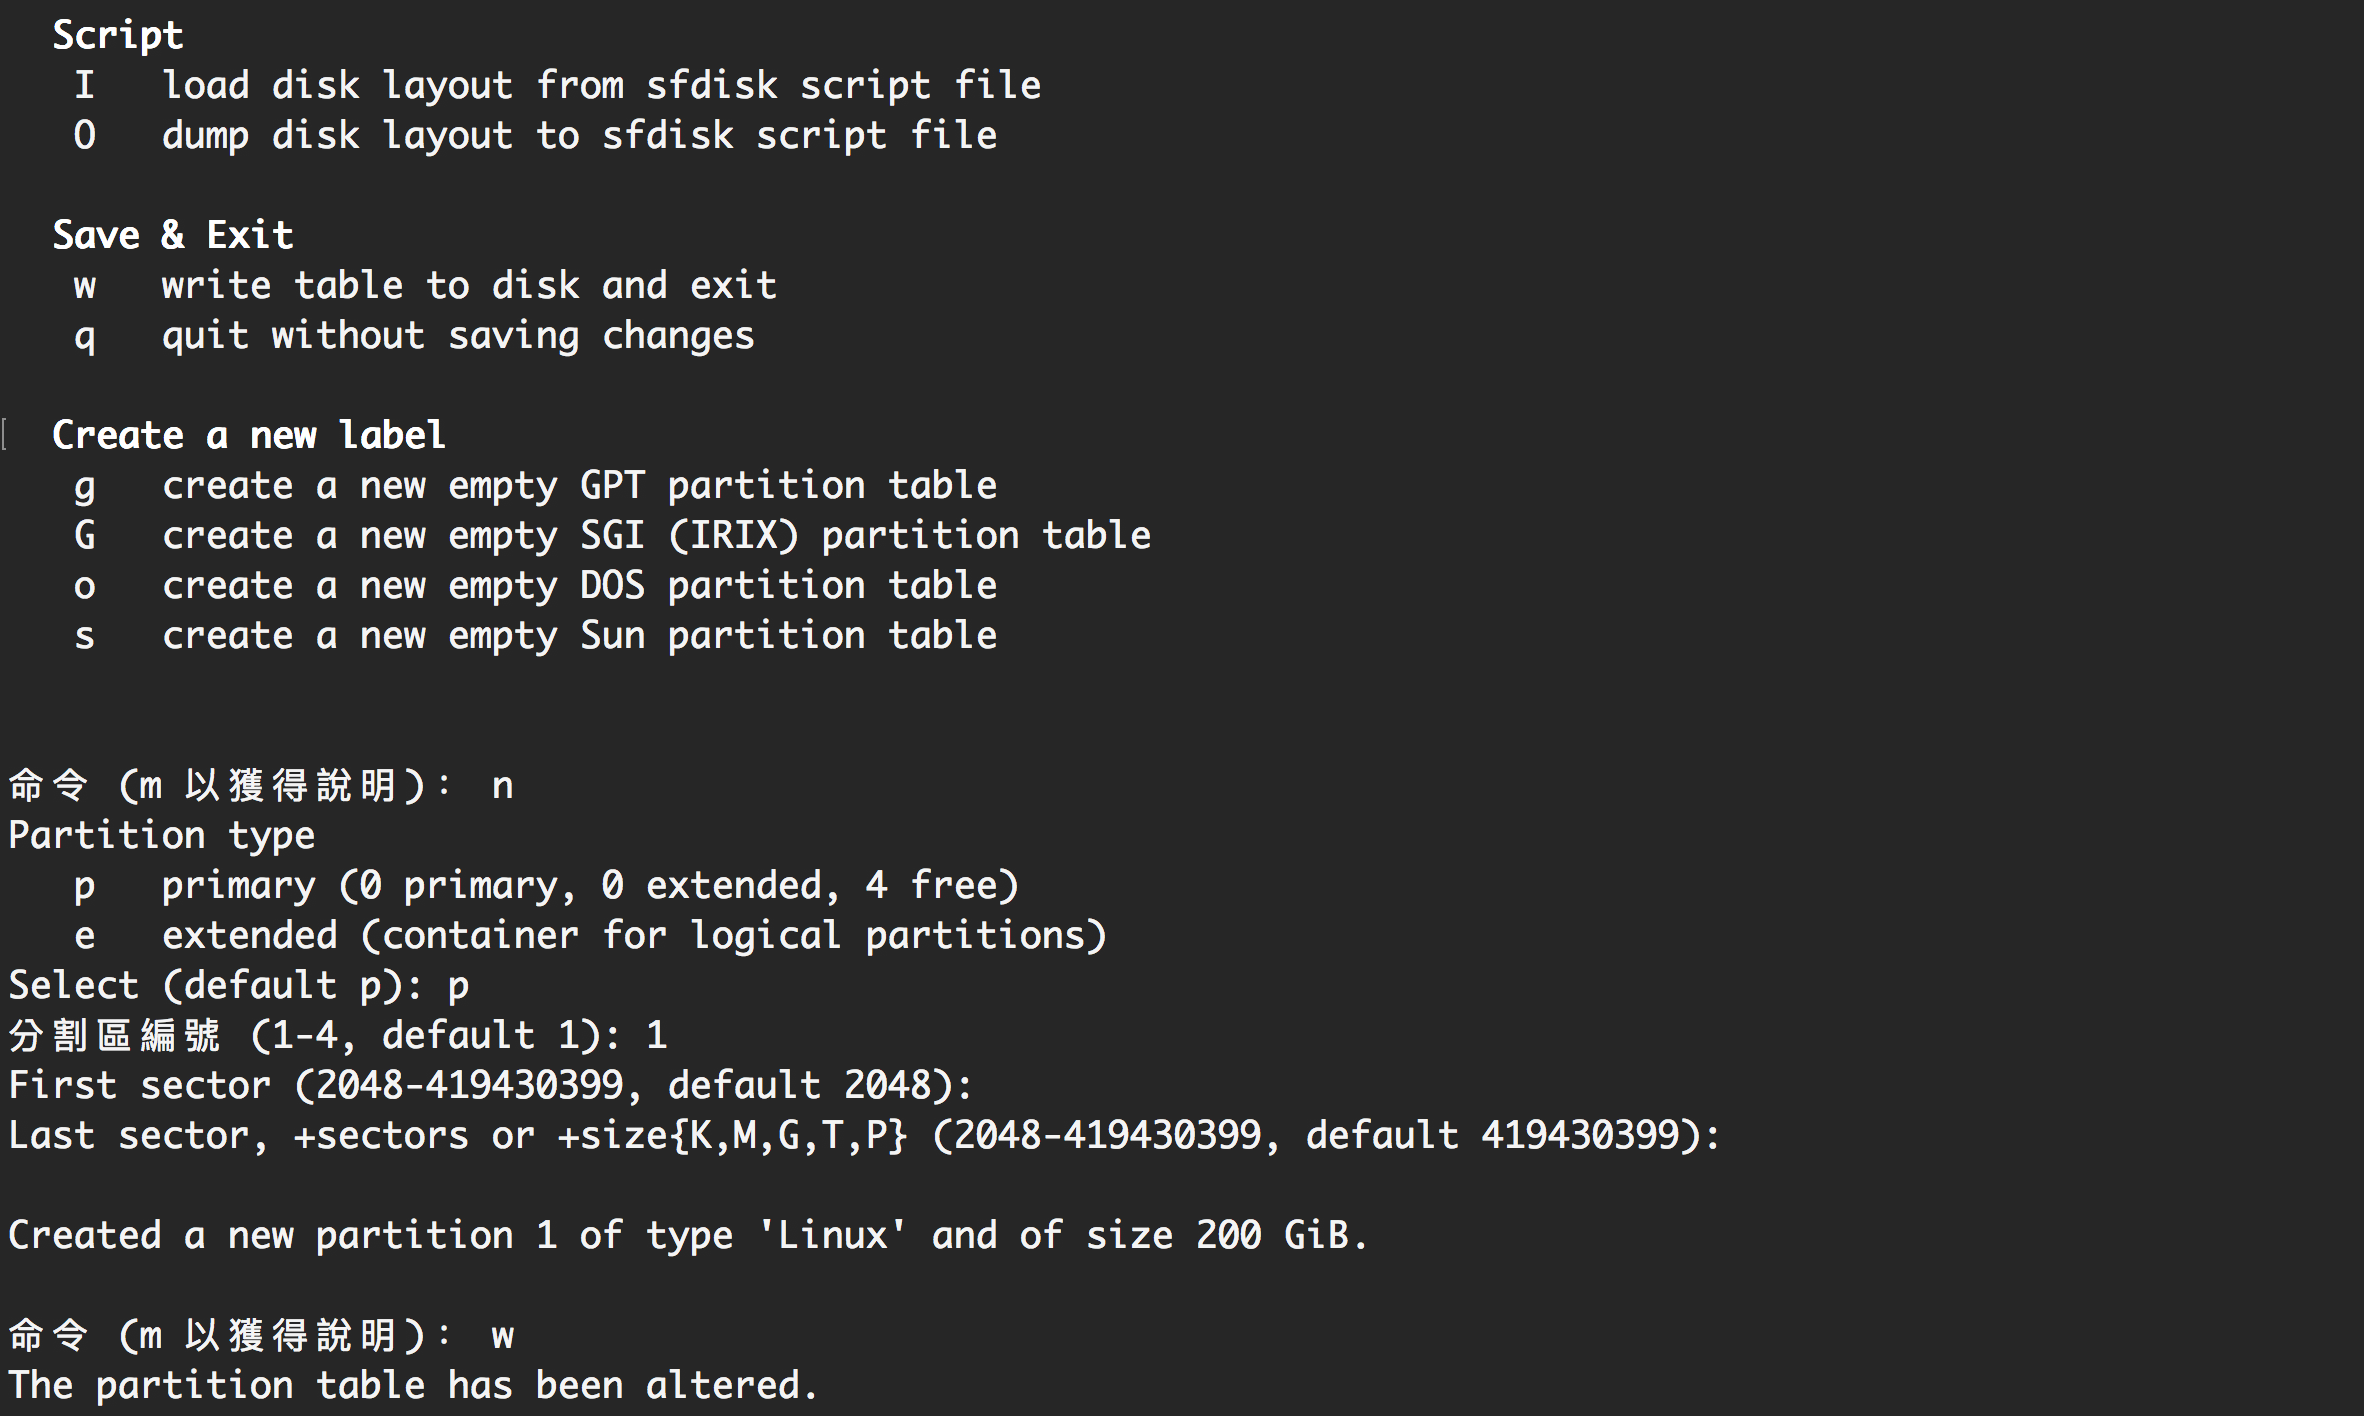
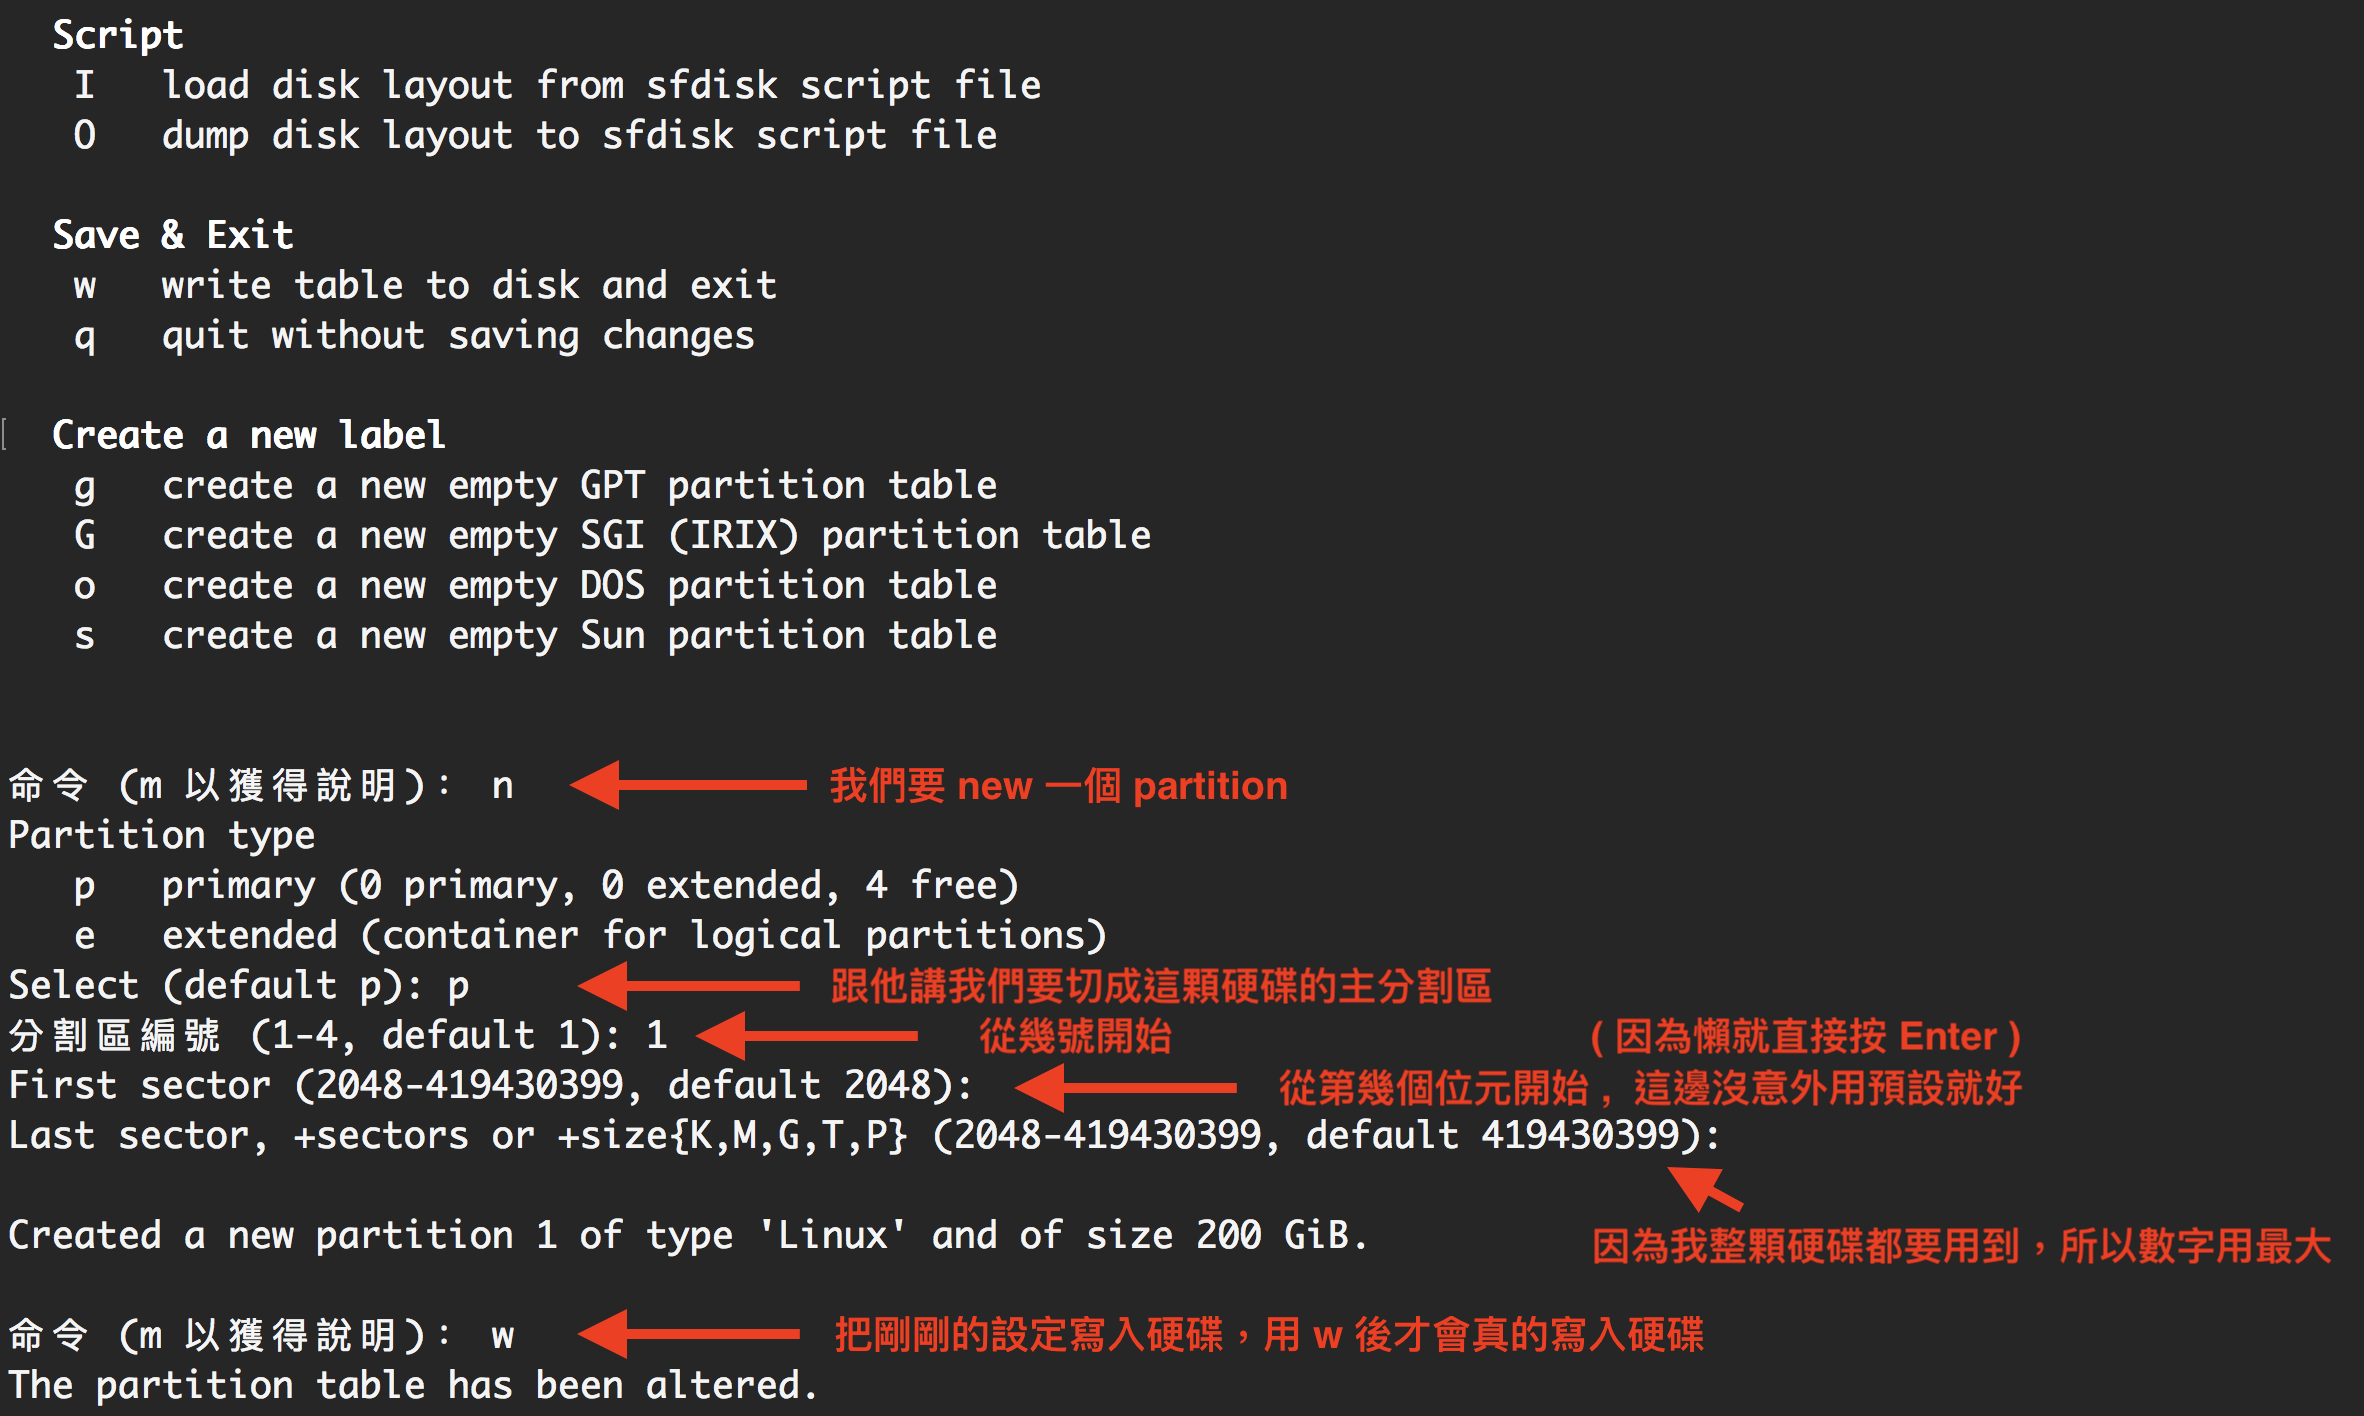
講解方便，直接寫在圖片上

diff --git a/Note/2018-03-17-mountbase.html b/Note/2018-03-17-mountbase.html
@@ -145,7 +145,7 @@
                     <div class="col-lg-12">
                         <p class="lead">
                             再來我們就準備格式化了，一樣用 fdisk 這指令來格式化硬碟，下的參數是後面接指定要格式話得硬碟<br>
-                            因為用 fidis 這指令是可以互動式的指令
+                            因為用 fidis 這指令是可以互動式的指令，由於講解方便，就直接寫在圖片上了
                         </p>
                     </div>
                 </div>
